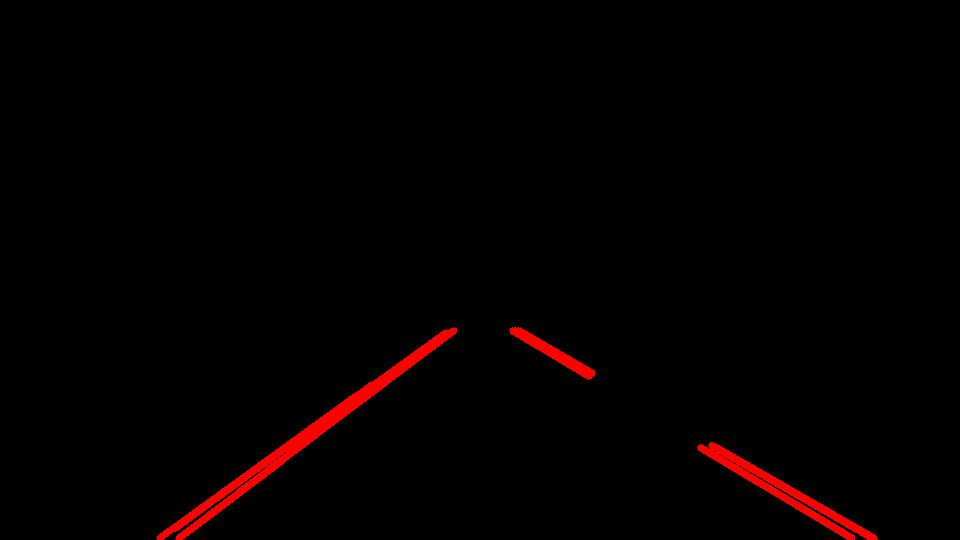
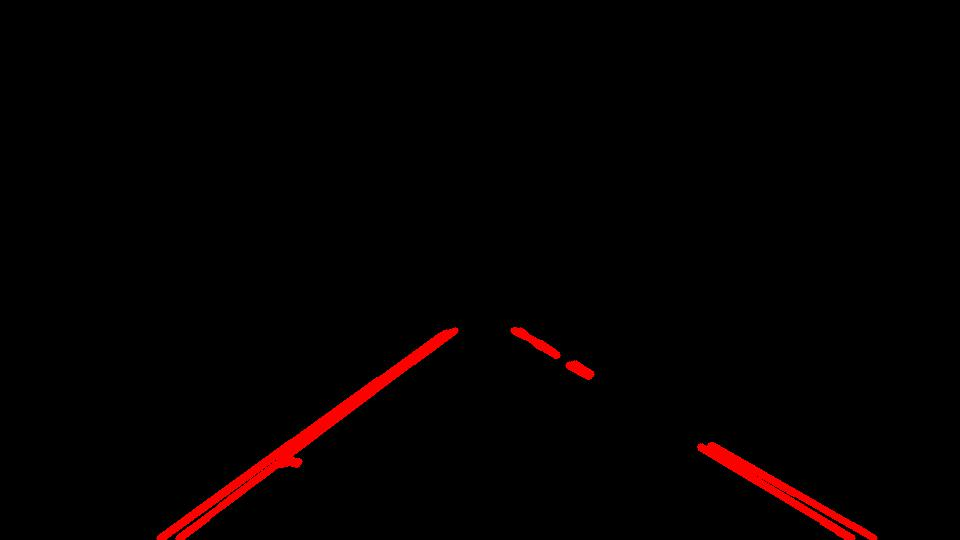
modify parameters

diff --git a/P1.py b/P1.py
@@ -190,9 +190,9 @@ else:
     # Define the Hough transform parameters
     rho = 1 # distance resolution in pixels of the Hough grid
     theta = np.pi/180 # angular resolution in radians of the Hough grid
-    threshold = 15     # minimum number of votes (intersections in Hough grid cell)
-    min_line_length = 40 #minimum number of pixels making up a line
-    max_line_gap = 20    # maximum gap in pixels between connectable line segments
+    threshold = 5     # minimum number of votes (intersections in Hough grid cell)
+    min_line_length = 10 #minimum number of pixels making up a line
+    max_line_gap = 10    # maximum gap in pixels between connectable line segments
 
 check_dir(output_directory)
 for idx, file in enumerate(images):

diff --git a/README.md b/README.md
@@ -8,14 +8,14 @@ The goals / steps of this project are the following:
 
 [//]: # (Image References)
 
-[image1]: ./output_images_split/solidWhiteCurve_input.jpg "Input Image"
-[image2]: ./output_images_split/solidWhiteCurve_gray.jpg "Grayscale"
-[image3]: ./output_images_split/solidWhiteCurve_blur.jpg "Blur"
-[image4]: ./output_images_split/solidWhiteCurve_edges.jpg "Edges"
-[image5]: ./output_images_split/solidWhiteCurve_roi.jpg "Target"
-[image6]: ./output_images_split/solidWhiteCurve_lines.jpg "Lines"
-[image7]: ./output_images_split/solidWhiteCurve_result.jpg "Result"
-[image8]: ./output_images/solidWhiteCurve_result.jpg "ResultFull"
+[image1]: ./output_images_split/solidWhiteRight_input.jpg "Input Image"
+[image2]: ./output_images_split/solidWhiteRight_gray.jpg "Grayscale"
+[image3]: ./output_images_split/solidWhiteRight_blur.jpg "Blur"
+[image4]: ./output_images_split/solidWhiteRight_edges.jpg "Edges"
+[image5]: ./output_images_split/solidWhiteRight_roi.jpg "Target"
+[image6]: ./output_images_split/solidWhiteRight_lines.jpg "Lines"
+[image7]: ./output_images_split/solidWhiteRight_result.jpg "Result"
+[image8]: ./output_images/solidWhiteRight_result.jpg "ResultFull"
 ---
 
 ### Reflection
